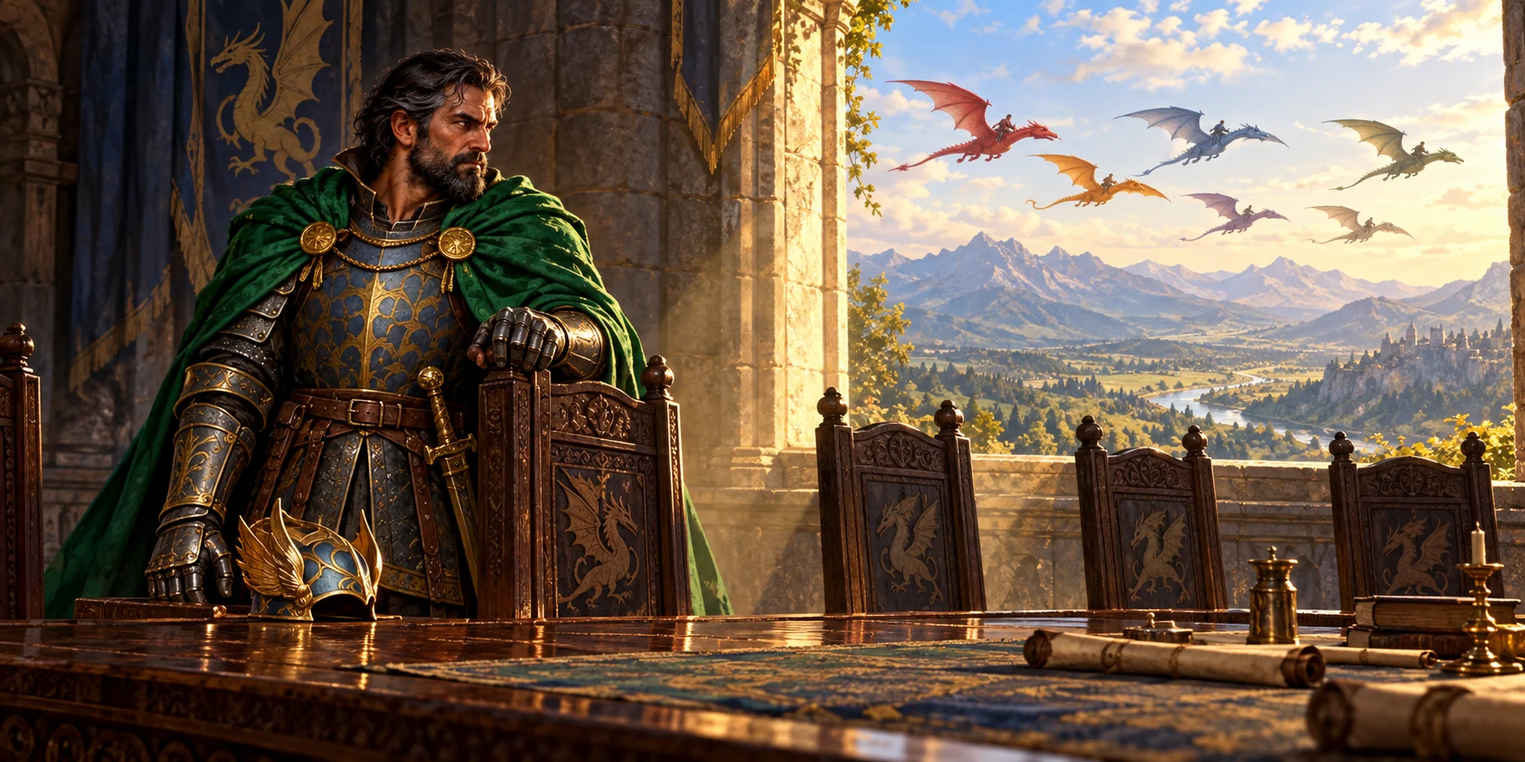
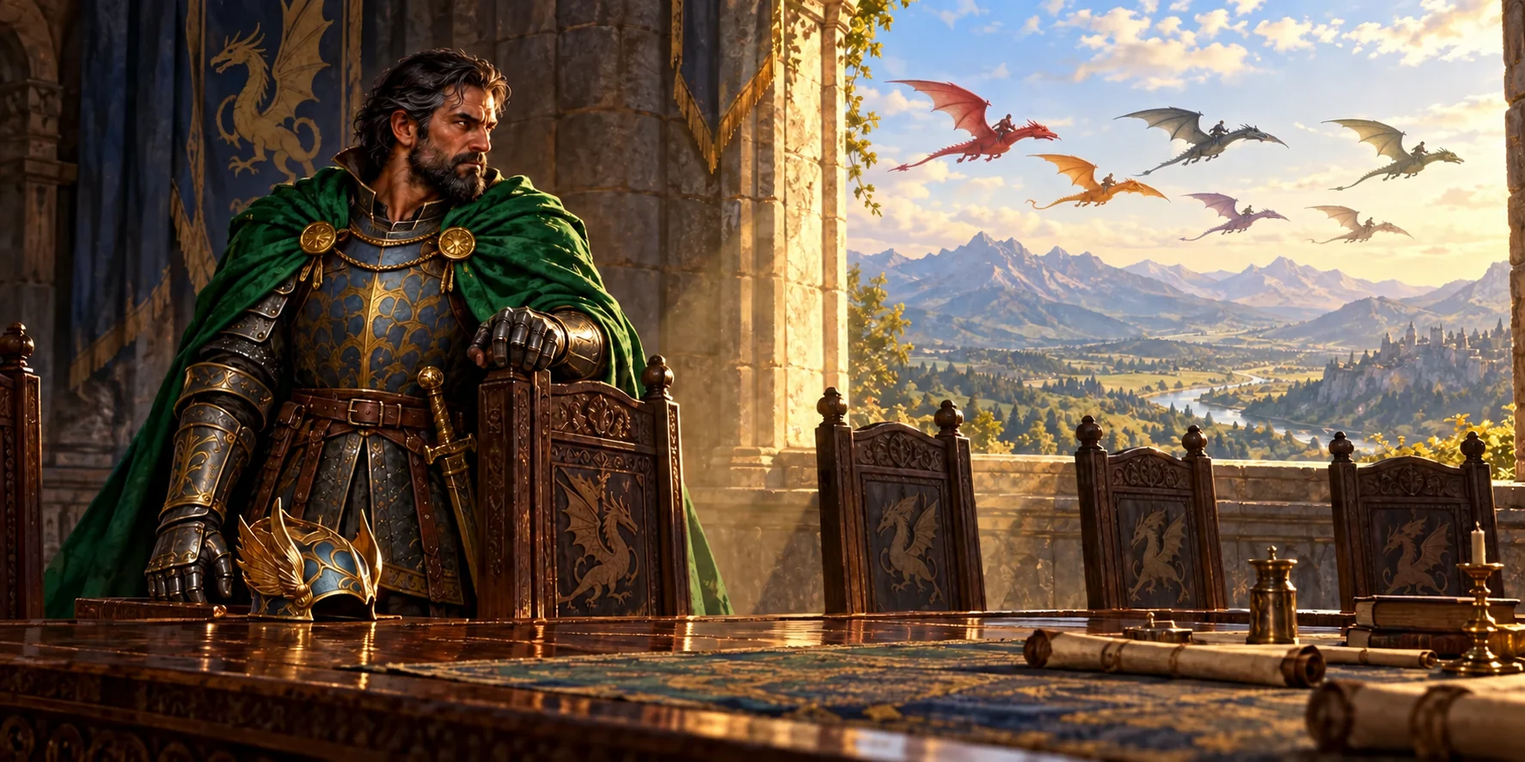
Rebuild dragon scenes and slow the opening chronicle

diff --git a/js/prologue-chapters.js b/js/prologue-chapters.js
@@ -1,30 +1,30 @@
 /* Authored shots: camera points are [image focal x, image focal y, zoom].
-   Fast location and threat montages use one short caption, not tour paragraphs. */
+   The peaceful towns form one narrated passage without location title cards. */
 window.EmberPrologueChapters = [
-  {"title":"The age of riders","era":"Emberfell · Before Wingfall","image":"01-seven-riders","duration":8500,"alt":"The seven Dragonriders fly together above peaceful Emberfell.","lines":["Seven Dragonriders once ruled Emberfell.","Dragons and people shared the land in peace."],"mood":"peace","transition":"dissolve","camera":[[0.38,0.34,1.13],[0.53,0.3,1.02]]},
-  {"title":"Millwood","era":"The western fields","image":"06-peace-millwood","duration":2200,"alt":"Dragons and people live peacefully around Millwood’s timber windmill, wheat fields and cow pasture.","lines":["Fields beneath friendly wings."],"mode":"montage","transition":"dissolve","camera":[[0.3,0.53,1.08],[0.46,0.47,1.02]]},
-  {"title":"Thornwell","era":"Beyond the orange birches","image":"07-peace-thornwell","duration":2200,"alt":"Thornwell’s school, ivy-clad tavern, dark-roofed inn and apple orchard welcome people and dragons.","lines":["Doors open to travelers."],"mode":"montage","transition":"cut","camera":[[0.62,0.42,1.02],[0.46,0.49,1.08]]},
-  {"title":"Forgefalls & Forgewick","era":"Across the oak country","image":"08-peace-forgefalls-forgewick","duration":2400,"alt":"A wagon crosses below Forgefalls toward Forgewick’s bustling market, forge, mine and rider temple.","lines":["Bridges joined a thriving realm."],"mode":"montage","transition":"dissolve","camera":[[0.4,0.64,1.13],[0.53,0.34,1.02]]},
-  {"title":"Sandspire & the Oasis","era":"The desert crossings","image":"09-peace-sandspire-oasis","duration":2200,"alt":"Sandspire’s sandstone houses overlook a safe cactus-lined caravan road to the separate palm oasis.","lines":["Caravans crossed without fear."],"mode":"montage","transition":"cut","camera":[[0.57,0.4,1.13],[0.42,0.47,1.02]]},
-  {"title":"Coralmere & Witchmoor","era":"Blossoms, sea and marsh","image":"10-peace-coralmere-witchmoor","duration":2400,"alt":"Friendly dragons share Coralmere’s blossom-lined harbor; the road continues toward Witchmoor’s boardwalks.","lines":["Trade reached the farthest shores."],"mode":"montage","transition":"dissolve","camera":[[0.39,0.38,1.04],[0.67,0.5,1.04]]},
-  {"title":"Hollybeck","era":"The winter country","image":"11-peace-hollybeck","duration":2200,"alt":"Snow-covered timber houses, friendly dragons and a safe spruce-lined road below Hollybeck’s temple.","lines":["Even the winter roads were safe."],"mode":"montage","transition":"cut","camera":[[0.48,0.64,1.08],[0.48,0.32,1.16]]},
-  {"title":"Ashcrag & Cinderhold","era":"The far eastern road","image":"12-peace-ashcrag-cinderhold","duration":2400,"alt":"A maintained stone road crosses Ashcrag’s lava country to Cinderhold, guarded by a dragon and rider.","lines":["The Riders held Emberfell together."],"mode":"montage","transition":"veil","camera":[[0.65,0.35,1.17],[0.48,0.49,1.02]]},
-  {"title":"One wanted more","era":"Halvard · One of the seven","image":"13-halvard-ambition","duration":7000,"alt":"Halvard stands apart from the other riders, his hand tightening beside the throne.","lines":["But one of the seven wanted more.","Halvard meant to rule alone."],"mood":"royal","transition":"black","camera":[[0.48,0.43,1.04],[0.29,0.23,1.72]],"ease":"ease-in-out"},
-  {"title":"Wingfall","era":"Fifty years ago","image":"02-wingfall","duration":7000,"alt":"Halvard turns his dragon against the riders who trusted him.","lines":["The betrayal came fifty years ago.","They called it Wingfall."],"mood":"war","transition":"impact","camera":[[0.8,0.26,1.18],[0.58,0.36,1.07],[0.26,0.34,1.1]]},
-  {"title":"The broken sky","era":"Wingfall","image":"14-wingfall-sky","duration":5000,"alt":"Dragons and riders clash above the Forgefalls valley in a sky torn by fire.","lines":["Dragonfire turned against dragonfire."],"mood":"war","transition":"impact","camera":[[0.72,0.25,1.13],[0.52,0.29,1.04],[0.38,0.26,1.16]]},
-  {"title":"The last defense","era":"Wingfall · The rider halls","image":"15-wingfall-temple","duration":5500,"alt":"Riders and their dragons shield fleeing villagers on the steps of the recognizable Forgewick temple.","lines":["The Riders fell. Halvard prevailed."],"mood":"war","transition":"veil","camera":[[0.5,0.18,1.15],[0.5,0.56,1.12]]},
-  {"title":"The usurper king","era":"Cinderhold","image":"03-halvard","duration":7000,"alt":"The crowned Halvard sits on Cinderhold’s throne, surrounded by his royal guards.","lines":["He seized Cinderhold’s throne.","No new Rider would be allowed to challenge him."],"mood":"royal","transition":"black","camera":[[0.47,0.39,1.02],[0.468,0.18,1.92]],"ease":"ease-in-out"},
-  {"title":"The dragon hunts","era":"By order of the king","image":"16-dragon-hunts","duration":7000,"alt":"Halvard leads armed royal hunters after dragons fleeing the cactus-lined roads outside Sandspire.","lines":["Then came the dragon hunts.","The survivors vanished. The skies fell silent."],"mood":"war","transition":"veil","camera":[[0.18,0.36,1.08],[0.6,0.38,1.02],[0.86,0.4,1.12]]},
-  {"title":"The abandoned workings","era":"The years after Wingfall","image":"21-monsters-mine","duration":3200,"alt":"Brown, red and violet Shroom monsters gather along mine rails beneath the watch of a brown Stone Golem.","lines":["Without the Riders, darkness spread."],"mode":"threat","mood":"dread","transition":"black","camera":[[0.3,0.44,1.03],[0.8,0.42,1.2]],"ease":"ease-in"},
-  {"title":"Orders without masters","era":"Beneath Forgewick","image":"22-monsters-granite","duration":2700,"alt":"A gray Granite Golem and skeletal swordsmen stand watch in the old temple undercroft.","lines":["Ancient wardens kept their watch."],"mode":"threat","mood":"dread","transition":"dread","camera":[[0.3,0.4,1.22],[0.68,0.44,1.03]]},
-  {"title":"The desert crossings","era":"The roads fall silent","image":"18-monsters-desert","duration":2500,"alt":"Orange Duneblades, teal Cistern Fangs and red, horn-helmed Sunscar Sentinels block the cactus-lined road near Sandspire.","lines":["The crossings belonged to monsters."],"mode":"threat","mood":"dread","transition":"cut","camera":[[0.71,0.46,1.03],[0.36,0.45,1.13]]},
-  {"title":"Beneath the sands","era":"The Sunken Pyramid","image":"24-monsters-pyramid","duration":3000,"alt":"A mummy and light- and dark-clad archers and lancers guard a sandstone crypt; the crowned, silver-haired Spider Queen waits in its webbed depths.","lines":["Something waited beneath the sands."],"mode":"threat","mood":"dread","transition":"veil","camera":[[0.22,0.43,1.03],[0.86,0.4,1.16]],"ease":"ease-in"},
-  {"title":"The blossom roads","era":"Without the Riders","image":"17-monsters-blossom","duration":2800,"alt":"All three Vinemaw forms and all three Longroot forms spread across the blossom road outside Coralmere.","lines":["Even the forests began to hunger."],"mode":"threat","mood":"dread","transition":"dread","camera":[[0.72,0.5,1.18],[0.25,0.42,1.02]]},
-  {"title":"The winter roads","era":"Beyond shuttered doors","image":"19-monsters-winter","duration":2500,"alt":"Sandy Tollfangs, brown Rimepicks and an armored white Cairnkeeper Gnoll occupy the snowy road outside Hollybeck.","lines":["Winter shelters became hunting grounds."],"mode":"threat","mood":"dread","transition":"cut","camera":[[0.3,0.45,1.03],[0.72,0.48,1.16]]},
-  {"title":"The sleepless guardians","era":"Beneath Hollybeck","image":"23-monsters-crystal","duration":2800,"alt":"An ivory Crystal Golem with violet crystals stands alone in an empty, frozen temple hall.","lines":["The old halls would not sleep."],"mode":"threat","mood":"dread","transition":"veil","camera":[[0.42,0.56,1.04],[0.31,0.30,1.24]]},
-  {"title":"Beyond the last shelter","era":"The northern snow trail","image":"25-monsters-winter-bosses","duration":3000,"alt":"White-furred, ram-horned Frosthorn guards one snow clearing; the blue-winged Ice Moth hovers in a separate frozen glade.","lines":["Beyond them, greater terrors stirred."],"mode":"threat","mood":"dread","transition":"dread","camera":[[0.26,0.45,1.13],[0.83,0.4,1.03]]},
-  {"title":"The eastern watch","era":"In the shadow of Cinderhold","image":"20-monsters-ashcrag","duration":2600,"alt":"Red-eyed Cinder Watchers, a green-eyed orange Kiln Watcher and a violet-eyed Vesper Watcher drift over the lava road.","lines":["Eyes watched the empty roads."],"mode":"threat","mood":"dread","transition":"cut","camera":[[0.65,0.38,1.03],[0.29,0.36,1.22]]},
-  {"title":"Fire beneath the stone","era":"The depths of Ashcrag","image":"26-monsters-ember","duration":3000,"alt":"A blue-armored Ember Golem with an orange core stands before lavender, red and dark-blue fiends bearing distinct tridents.","lines":["Fire still burned beneath the stone."],"mode":"threat","mood":"war","transition":"impact","camera":[[0.26,0.51,1.04],[0.8,0.35,1.1]]},
-  {"title":"Fifty silent years","era":"A kingdom under Halvard","image":"04-silenced-realm","duration":8000,"alt":"The old rider halls stand deserted beside an overgrown road.","lines":["Dragon worship was forbidden. The old histories disappeared.","Fifty years passed beneath Halvard’s crown."],"mood":"aftermath","transition":"black","camera":[[0.34,0.28,1.25],[0.53,0.45,1.02]]},
-  {"title":"An ordinary morning","era":"Millwood · The present day","image":"05-millwood-dawn","duration":7000,"alt":"Morning light reaches Corin’s upstairs window in Millwood, beyond the windmill and fields.","lines":["In Millwood, a miller’s son was waking.","His name was Corin."],"mood":"dawn","transition":"dissolve","camera":[[0.62,0.43,1.02],[0.543,0.53,1.48]],"ease":"ease-in-out"}
+  {"title":"The age of riders","era":"Emberfell · Before Wingfall","image":"01-seven-riders","duration":9300,"alt":"Seven distinct dragons and their Riders stand together on a grassy ridge overlooking peaceful Emberfell; Halvard rides the blue dragon.","lines":["Seven Dragonriders once ruled Emberfell.","Dragons were plentiful, and peace endured."],"mood":"peace","transition":"dissolve","camera":[[0.19,0.53,1.03],[0.5,0.57,1.03],[0.82,0.63,1.03]]},
+  {"title":"Millwood","era":"The western fields","image":"06-peace-millwood","duration":3800,"alt":"Dragons and people live peacefully around Millwood’s timber windmill, wheat fields and cow pasture.","lines":["Dragons lived beside humankind."],"mode":"montage","transition":"dissolve","camera":[[0.3,0.53,1.08],[0.46,0.47,1.02]],"hideTitle":true},
+  {"title":"Thornwell","era":"Beyond the orange birches","image":"07-peace-thornwell","duration":3800,"alt":"Thornwell’s school, ivy-clad tavern, dark-roofed inn and apple orchard welcome people and dragons.","lines":["They were neighbors, companions, and friends."],"mode":"montage","transition":"dissolve","camera":[[0.62,0.42,1.02],[0.46,0.49,1.08]],"hideTitle":true},
+  {"title":"Forgefalls & Forgewick","era":"Across the oak country","image":"08-peace-forgefalls-forgewick","duration":3800,"alt":"A wagon crosses below Forgefalls toward Forgewick’s bustling market, forge, mine and rider temple.","lines":["Their wings sheltered a thriving realm."],"mode":"montage","transition":"dissolve","camera":[[0.4,0.64,1.13],[0.53,0.34,1.02]],"hideTitle":true},
+  {"title":"Sandspire & the Oasis","era":"The desert crossings","image":"09-peace-sandspire-oasis","duration":3800,"alt":"Sandspire’s sandstone houses overlook a safe cactus-lined caravan road to the separate palm oasis.","lines":["Travelers crossed the roads without fear."],"mode":"montage","transition":"dissolve","camera":[[0.57,0.4,1.13],[0.42,0.47,1.02]],"hideTitle":true},
+  {"title":"Coralmere & Witchmoor","era":"Blossoms, sea and marsh","image":"10-peace-coralmere-witchmoor","duration":3800,"alt":"Friendly dragons share Coralmere’s blossom-lined harbor; the road continues toward Witchmoor’s boardwalks.","lines":["Trade and friendship linked the distant towns."],"mode":"montage","transition":"dissolve","camera":[[0.39,0.38,1.04],[0.67,0.5,1.04]],"hideTitle":true},
+  {"title":"Hollybeck","era":"The winter country","image":"11-peace-hollybeck","duration":3800,"alt":"Snow-covered timber houses, friendly dragons and a safe spruce-lined road below Hollybeck’s temple.","lines":["Even the farthest villages knew peace."],"mode":"montage","transition":"dissolve","camera":[[0.48,0.64,1.08],[0.48,0.32,1.16]],"hideTitle":true},
+  {"title":"Ashcrag & Cinderhold","era":"The far eastern road","image":"12-peace-ashcrag-cinderhold","duration":3800,"alt":"A maintained stone road crosses Ashcrag’s lava country to Cinderhold, guarded by a dragon and rider.","lines":["Together, the seven Riders kept that peace."],"mode":"montage","transition":"dissolve","camera":[[0.65,0.35,1.17],[0.48,0.49,1.02]],"hideTitle":true},
+  {"title":"One wanted more","era":"Halvard · One of the seven","image":"13-halvard-ambition","duration":7800,"alt":"Halvard stands apart from the other riders, his hand tightening beside the throne.","lines":["But one of the seven wanted more.","Halvard meant to rule alone."],"mood":"royal","transition":"black","camera":[[0.48,0.43,1.04],[0.29,0.23,1.72]],"ease":"ease-in-out"},
+  {"title":"Wingfall","era":"Fifty years ago","image":"02-wingfall","duration":7800,"alt":"Short-haired Halvard rides his blue dragon above Emberfell as the betrayal begins.","lines":["The betrayal came fifty years ago.","They called it Wingfall."],"mood":"war","transition":"impact","camera":[[0.47,0.36,1.03],[0.35,0.32,1.09],[0.22,0.34,1.12]]},
+  {"title":"The broken sky","era":"Wingfall","image":"14-wingfall-sky","duration":5800,"alt":"Halvard on his blue dragon faces a white dragon and its Rider, their separate silhouettes clear above Forgefalls.","lines":["Dragonfire turned against dragonfire."],"mood":"war","transition":"impact","camera":[[0.76,0.28,1.02],[0.5,0.31,1.02],[0.27,0.28,1.06]]},
+  {"title":"The last defense","era":"Wingfall · The rider halls","image":"15-wingfall-temple","duration":8000,"alt":"A green dragon and its defender protect fleeing villagers at Forgewick’s temple while Halvard attacks from above on his blue dragon.","lines":["The Riders fell. Halvard prevailed."],"mood":"war","transition":"veil","camera":[[0.61,0.23,1.02],[0.27,0.59,1.02],[0.76,0.72,1.02]]},
+  {"title":"The usurper king","era":"Cinderhold","image":"03-halvard","duration":7800,"alt":"The crowned Halvard sits on Cinderhold’s throne, surrounded by his royal guards.","lines":["He seized Cinderhold’s throne.","No new Rider would be allowed to challenge him."],"mood":"royal","transition":"black","camera":[[0.47,0.39,1.02],[0.468,0.18,1.92]],"ease":"ease-in-out"},
+  {"title":"The dragon hunts","era":"By order of the king","image":"16-dragon-hunts","duration":7800,"alt":"Halvard leads armed royal hunters after dragons fleeing the cactus-lined roads outside Sandspire.","lines":["Then came the dragon hunts.","The survivors vanished. The skies fell silent."],"mood":"war","transition":"veil","camera":[[0.18,0.36,1.08],[0.6,0.38,1.02],[0.86,0.4,1.12]]},
+  {"title":"The abandoned workings","era":"The years after Wingfall","image":"21-monsters-mine","duration":4100,"alt":"Brown, red and violet Shroom monsters gather along mine rails beneath the watch of a brown Stone Golem.","lines":["Without the Riders, darkness spread."],"mode":"threat","mood":"dread","transition":"black","camera":[[0.3,0.44,1.03],[0.8,0.42,1.2]],"ease":"ease-in"},
+  {"title":"Orders without masters","era":"Beneath Forgewick","image":"22-monsters-granite","duration":3600,"alt":"A gray Granite Golem and skeletal swordsmen stand watch in the old temple undercroft.","lines":["Ancient wardens kept their watch."],"mode":"threat","mood":"dread","transition":"dread","camera":[[0.3,0.4,1.22],[0.68,0.44,1.03]]},
+  {"title":"The desert crossings","era":"The roads fall silent","image":"18-monsters-desert","duration":3600,"alt":"Orange Duneblades, teal Cistern Fangs and red, horn-helmed Sunscar Sentinels block the cactus-lined road near Sandspire.","lines":["The crossings belonged to monsters."],"mode":"threat","mood":"dread","transition":"dread","camera":[[0.71,0.46,1.03],[0.36,0.45,1.13]]},
+  {"title":"Beneath the sands","era":"The Sunken Pyramid","image":"24-monsters-pyramid","duration":3900,"alt":"A mummy and light- and dark-clad archers and lancers guard a sandstone crypt; the crowned, silver-haired Spider Queen waits in its webbed depths.","lines":["Something waited beneath the sands."],"mode":"threat","mood":"dread","transition":"veil","camera":[[0.22,0.43,1.03],[0.86,0.4,1.16]],"ease":"ease-in"},
+  {"title":"The blossom roads","era":"Without the Riders","image":"17-monsters-blossom","duration":3700,"alt":"All three Vinemaw forms and all three Longroot forms spread across the blossom road outside Coralmere.","lines":["Even the forests began to hunger."],"mode":"threat","mood":"dread","transition":"dread","camera":[[0.72,0.5,1.18],[0.25,0.42,1.02]]},
+  {"title":"The winter roads","era":"Beyond shuttered doors","image":"19-monsters-winter","duration":3600,"alt":"Sandy Tollfangs, brown Rimepicks and an armored white Cairnkeeper Gnoll occupy the snowy road outside Hollybeck.","lines":["Winter shelters became hunting grounds."],"mode":"threat","mood":"dread","transition":"dread","camera":[[0.3,0.45,1.03],[0.72,0.48,1.16]]},
+  {"title":"The sleepless guardians","era":"Beneath Hollybeck","image":"23-monsters-crystal","duration":3700,"alt":"An ivory Crystal Golem with violet crystals stands alone in an empty, frozen temple hall.","lines":["The old halls would not sleep."],"mode":"threat","mood":"dread","transition":"veil","camera":[[0.42,0.56,1.04],[0.31,0.3,1.24]]},
+  {"title":"Beyond the last shelter","era":"The northern snow trail","image":"25-monsters-winter-bosses","duration":3900,"alt":"White-furred, ram-horned Frosthorn guards one snow clearing; the blue-winged Ice Moth hovers in a separate frozen glade.","lines":["Beyond them, greater terrors stirred."],"mode":"threat","mood":"dread","transition":"dread","camera":[[0.26,0.45,1.13],[0.83,0.4,1.03]]},
+  {"title":"The eastern watch","era":"In the shadow of Cinderhold","image":"20-monsters-ashcrag","duration":3600,"alt":"Red-eyed Cinder Watchers, a green-eyed orange Kiln Watcher and a violet-eyed Vesper Watcher drift over the lava road.","lines":["Eyes watched the empty roads."],"mode":"threat","mood":"dread","transition":"dread","camera":[[0.65,0.38,1.03],[0.29,0.36,1.22]]},
+  {"title":"Fire beneath the stone","era":"The depths of Ashcrag","image":"26-monsters-ember","duration":3900,"alt":"A blue-armored Ember Golem with an orange core stands before lavender, red and dark-blue fiends bearing distinct tridents.","lines":["Fire still burned beneath the stone."],"mode":"threat","mood":"war","transition":"impact","camera":[[0.26,0.51,1.04],[0.8,0.35,1.1]]},
+  {"title":"Fifty silent years","era":"A kingdom under Halvard","image":"04-silenced-realm","duration":8800,"alt":"The old rider halls stand deserted beside an overgrown road.","lines":["Dragon worship was forbidden. The old histories disappeared.","Fifty years passed beneath Halvard’s crown."],"mood":"aftermath","transition":"black","camera":[[0.34,0.28,1.25],[0.53,0.45,1.02]]},
+  {"title":"An ordinary morning","era":"Millwood · The present day","image":"05-millwood-dawn","duration":7800,"alt":"Morning light reaches Corin’s upstairs window in Millwood, beyond the windmill and fields.","lines":["In Millwood, a miller’s son was waking.","His name was Corin."],"mood":"dawn","transition":"dissolve","camera":[[0.62,0.43,1.02],[0.543,0.53,1.48]],"ease":"ease-in-out"}
 ];

diff --git a/js/opening-prologue.js b/js/opening-prologue.js
@@ -5,7 +5,7 @@
   if (!Array.isArray(chapters) || !chapters.length) return;
   const reduced = window.matchMedia('(prefers-reduced-motion: reduce)').matches;
   const wait = ms => new Promise(resolve => setTimeout(resolve, ms));
-  const imageURL = chapter => 'assets/prologue/' + chapter.image + '.webp?v=20261003-roster3';
+  const imageURL = chapter => 'assets/prologue/' + chapter.image + '.webp?v=20261003-continuity';
   let active = false, playing = null;
 
   function loadPicture(chapter, signal) {
@@ -86,7 +86,7 @@
     let elapsed = 0, lastTick = performance.now(), timer = 0, transition = 0, controlsTimer = 0;
     let keyboardControls = false, panAnimation = null, captionAnimation = null, wipeAnimation = null, resizeObserver;
     let sceneEffects = [];
-    const cutTiming = { dissolve: 180, cut: 0, dread: 130, veil: 240, impact: 80, black: 420 };
+    const cutTiming = { dissolve: 700, cut: 300, dread: 700, veil: 850, impact: 500, black: 950 };
     const pictures = new Map();
     let resolveDone;
     const done = new Promise(resolve => { resolveDone = resolve; });
@@ -199,7 +199,7 @@
       const token = ++transition;
       syncPause();
       const chapter = chapters[n], kind = chapter.transition || 'dissolve';
-      const ms = reduced ? 50 : (cutTiming[kind] ?? 180);
+      const ms = reduced ? 50 : (cutTiming[kind] ?? 700);
       root.dataset.transition = reduced ? 'dissolve' : kind;
       root.style.setProperty('--scene-fade', ms + 'ms');
       root.classList.add('is-changing');
@@ -213,6 +213,7 @@
       cancelAnimations(); index = n; elapsed = 0; beat = -1;
       root.dataset.mood = chapter.mood || 'peace';
       root.dataset.mode = chapter.mode || 'story';
+      root.dataset.hideTitle = String(!!chapter.hideTitle);
       pictureHost.replaceChildren();
       if (picture) { picture.alt = chapter.alt; pictureHost.appendChild(picture); }
       era.textContent = chapter.era; title.textContent = chapter.title;

diff --git a/index.html b/index.html
@@ -83,7 +83,7 @@
 <link rel="stylesheet" href="css/tutorial-button-polish.css?v=20261002-sound-fit">
 <link rel="stylesheet" href="css/aurelius-interface.css?v=20261003-panel-fix">
 <link rel="stylesheet" href="css/controller-layout.css?v=20261003-dragon-visibility">
-<link rel="stylesheet" href="css/opening-prologue.css?v=20261003-director4">
+<link rel="stylesheet" href="css/opening-prologue.css?v=20261003-dramatic5">
 </head>
 <body>
 <audio id="emberfellMillwoodBgm" loop preload="none" style="display:none" aria-hidden="true" src="assets/audio/millwood-rustic-town.m4a?v=20260926-smooth-loop"></audio>
@@ -494,8 +494,8 @@ window.addEventListener("unhandledrejection", function (e) {
 <script src="js/quest-notifications.js?v=20261002-quest-targets"></script>
 <script src="js/flight-travel.js?v=20261002-hettie-flight"></script>
 <script src="js/cloud-save-core.js?v=20260927-hatch-save-controls1"></script>
-<script src="js/prologue-chapters.js?v=20261003-director4"></script>
-<script src="js/opening-prologue.js?v=20261003-director4"></script>
+<script src="js/prologue-chapters.js?v=20261003-dramatic5"></script>
+<script src="js/opening-prologue.js?v=20261003-dramatic5"></script>
 <script src="js/generated/game-part-3.js?v=20261003-opening-prologue" onerror="(document.getElementById('bootMsg')||document.getElementById('bootmsg')).textContent='GAME PART 3 LOAD ERROR'"></script>
 <script src="js/overworld-performance.js?v=20261003-overworld-performance"></script>
 <script src="js/shroom-scenery.js?v=20261003-door-motion-fix"></script>

diff --git a/css/opening-prologue.css b/css/opening-prologue.css
@@ -36,6 +36,7 @@
 #openingPrologue[data-mode="montage"] h2, #openingPrologue[data-mode="threat"] h2 { font-size: clamp(23px, 3vw, 33px); margin-bottom: 9px; }
 #openingPrologue[data-mode="montage"] .prologue-narration, #openingPrologue[data-mode="threat"] .prologue-narration { font-size: clamp(17px, 2vw, 23px); min-height: 1.5em; }
 #openingPrologue[data-mode="threat"] h2 { color: #e3c4a6; }
+#openingPrologue[data-hide-title="true"] h2 { position: absolute; width: 1px; height: 1px; padding: 0; margin: -1px; overflow: hidden; clip-path: inset(50%); white-space: nowrap; }
 #openingPrologue[data-mood="dread"] .prologue-shade { background: radial-gradient(ellipse at 50% 35%, transparent 24%, #07080b70 85%), linear-gradient(0deg, #050609f5, #05060990 22%, transparent 60%); }
 #openingPrologue .prologue-atmosphere { position: absolute; inset: 0; overflow: hidden; pointer-events: none; display: none; }
 #openingPrologue[data-mood="war"] .prologue-atmosphere { display: block; }

diff --git a/docs/opening-prologue.md b/docs/opening-prologue.md
@@ -5,22 +5,23 @@ and `startMorning()`. Continue and Load Save bypass the prologue. Only explicit
 New Game actions pass `{newGame:true}` to `BOOT.close()`. No quest or save flag
 is changed.
 
-The directed cut has 106.1 seconds of picture holds, plus approximately four
-seconds of transitions: about 1 minute 50 seconds. It replaces the long town
-and enemy tours with brief montages and concise captions.
+The directed cut has 135.1 seconds of picture holds, plus approximately 19
+seconds of transitions: about 2 minutes 35 seconds. Peaceful town shots form
+one narrated passage about coexistence and safe roads, with no visible town-name
+titles. Longer holds and 0.5–0.95 second fades let the dramatic beats settle.
 
 | Sequence | Picture holds | Direction |
 | --- | --- | --- |
-| Peaceful towns | 2.2–2.4 seconds each | Short location captions, alternating lateral moves, rises and pullbacks |
-| Halvard and Wingfall | 5–8.5 seconds each | Face push-ins, opposing battle sweeps, a descent toward fleeing villagers |
-| Monsters | 2.5–3.2 seconds each | Faster reveals, threatening approaches, hard cuts and dark wipes |
-| Aftermath and Corin | 7–8 seconds each | Pull back from the ruined rider halls, then approach Corin's lit window |
+| Peaceful towns | 3.8 seconds each | Connected narration, alternating lateral moves, rises and pullbacks |
+| Riders, Halvard and Wingfall | 5.8–9.3 seconds each | Face push-ins, opposing battle sweeps, a descent toward fleeing villagers |
+| Monsters | 3.6–4.1 seconds each | Threatening approaches, dark dissolves and slow wipes |
+| Aftermath and Corin | 7.8–8.8 seconds each | Pull back from the ruined rider halls, then approach Corin's lit window |
 
 Each shot defines image focal coordinates and zoom keyframes in
 `js/prologue-chapters.js`. The player remains immersed in full-screen art on
 portrait and landscape displays. The camera clamps to image edges to prevent
 uncovered areas, and recomputes framing after rotation without restarting its
-elapsed time. Transitions include short dissolves, hard cuts, dark approaches,
+elapsed time. Transitions include unhurried dissolves, dark approaches,
 sliding curtains, restrained warm battle impacts and longer fades to black.
 
 War scenes have two drifting smoke layers. They animate only transform and
@@ -55,10 +56,15 @@ request. The Spider Queen keeps her crown, silver hair and spider body but uses
 grounded adult facial features and clothing rather than anime proportions.
 `assets/prologue/monster-coverage.json` records included designs and exclusions.
 
+Halvard consistently has short, dark wavy hair, an emerald cloak and a blue
+dragon. The opening and battle shots were rebuilt with separated silhouettes
+and simpler angles to make dragon anatomy readable.
+
 Source references include the existing realm map, building atlas, live enemy
 sprites, golem palette derivation and boss sprite sheets. Reference sheets are
 under `assets/prologue/references/`. Generation and correction prompts are saved
-in `generation-prompts.json`, `expansion-prompts.json` and `roster-prompts.json`.
+in `generation-prompts.json`, `expansion-prompts.json`, `roster-prompts.json`
+and `continuity-prompts.json`.
 These historical illustrations are recognizable interpretations, not new map
 geometry. Original generated output files remain unchanged.
 
